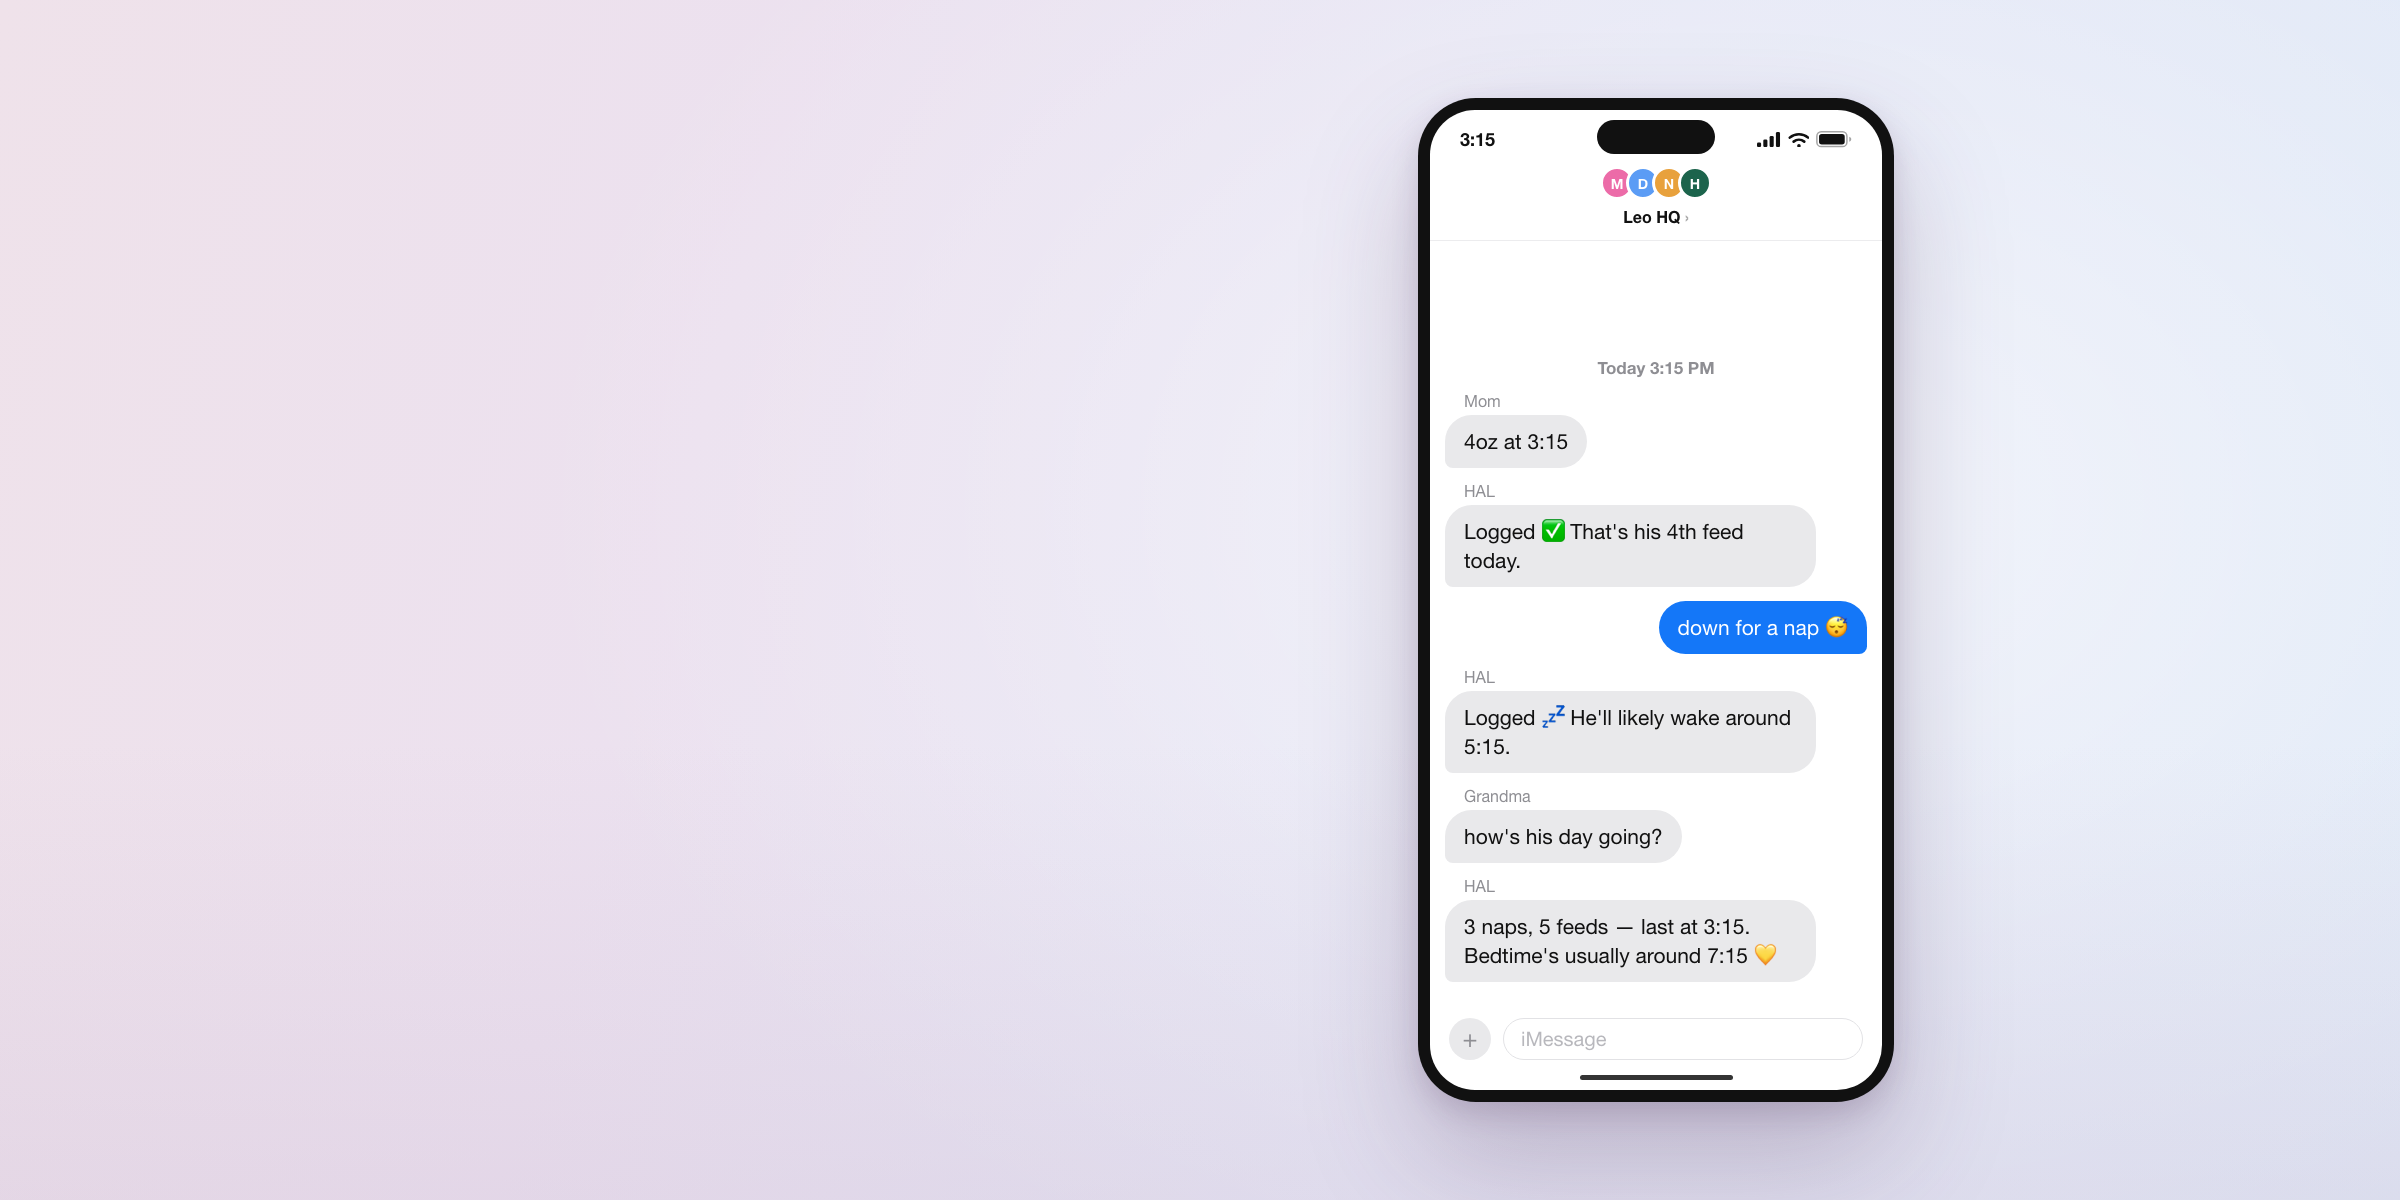
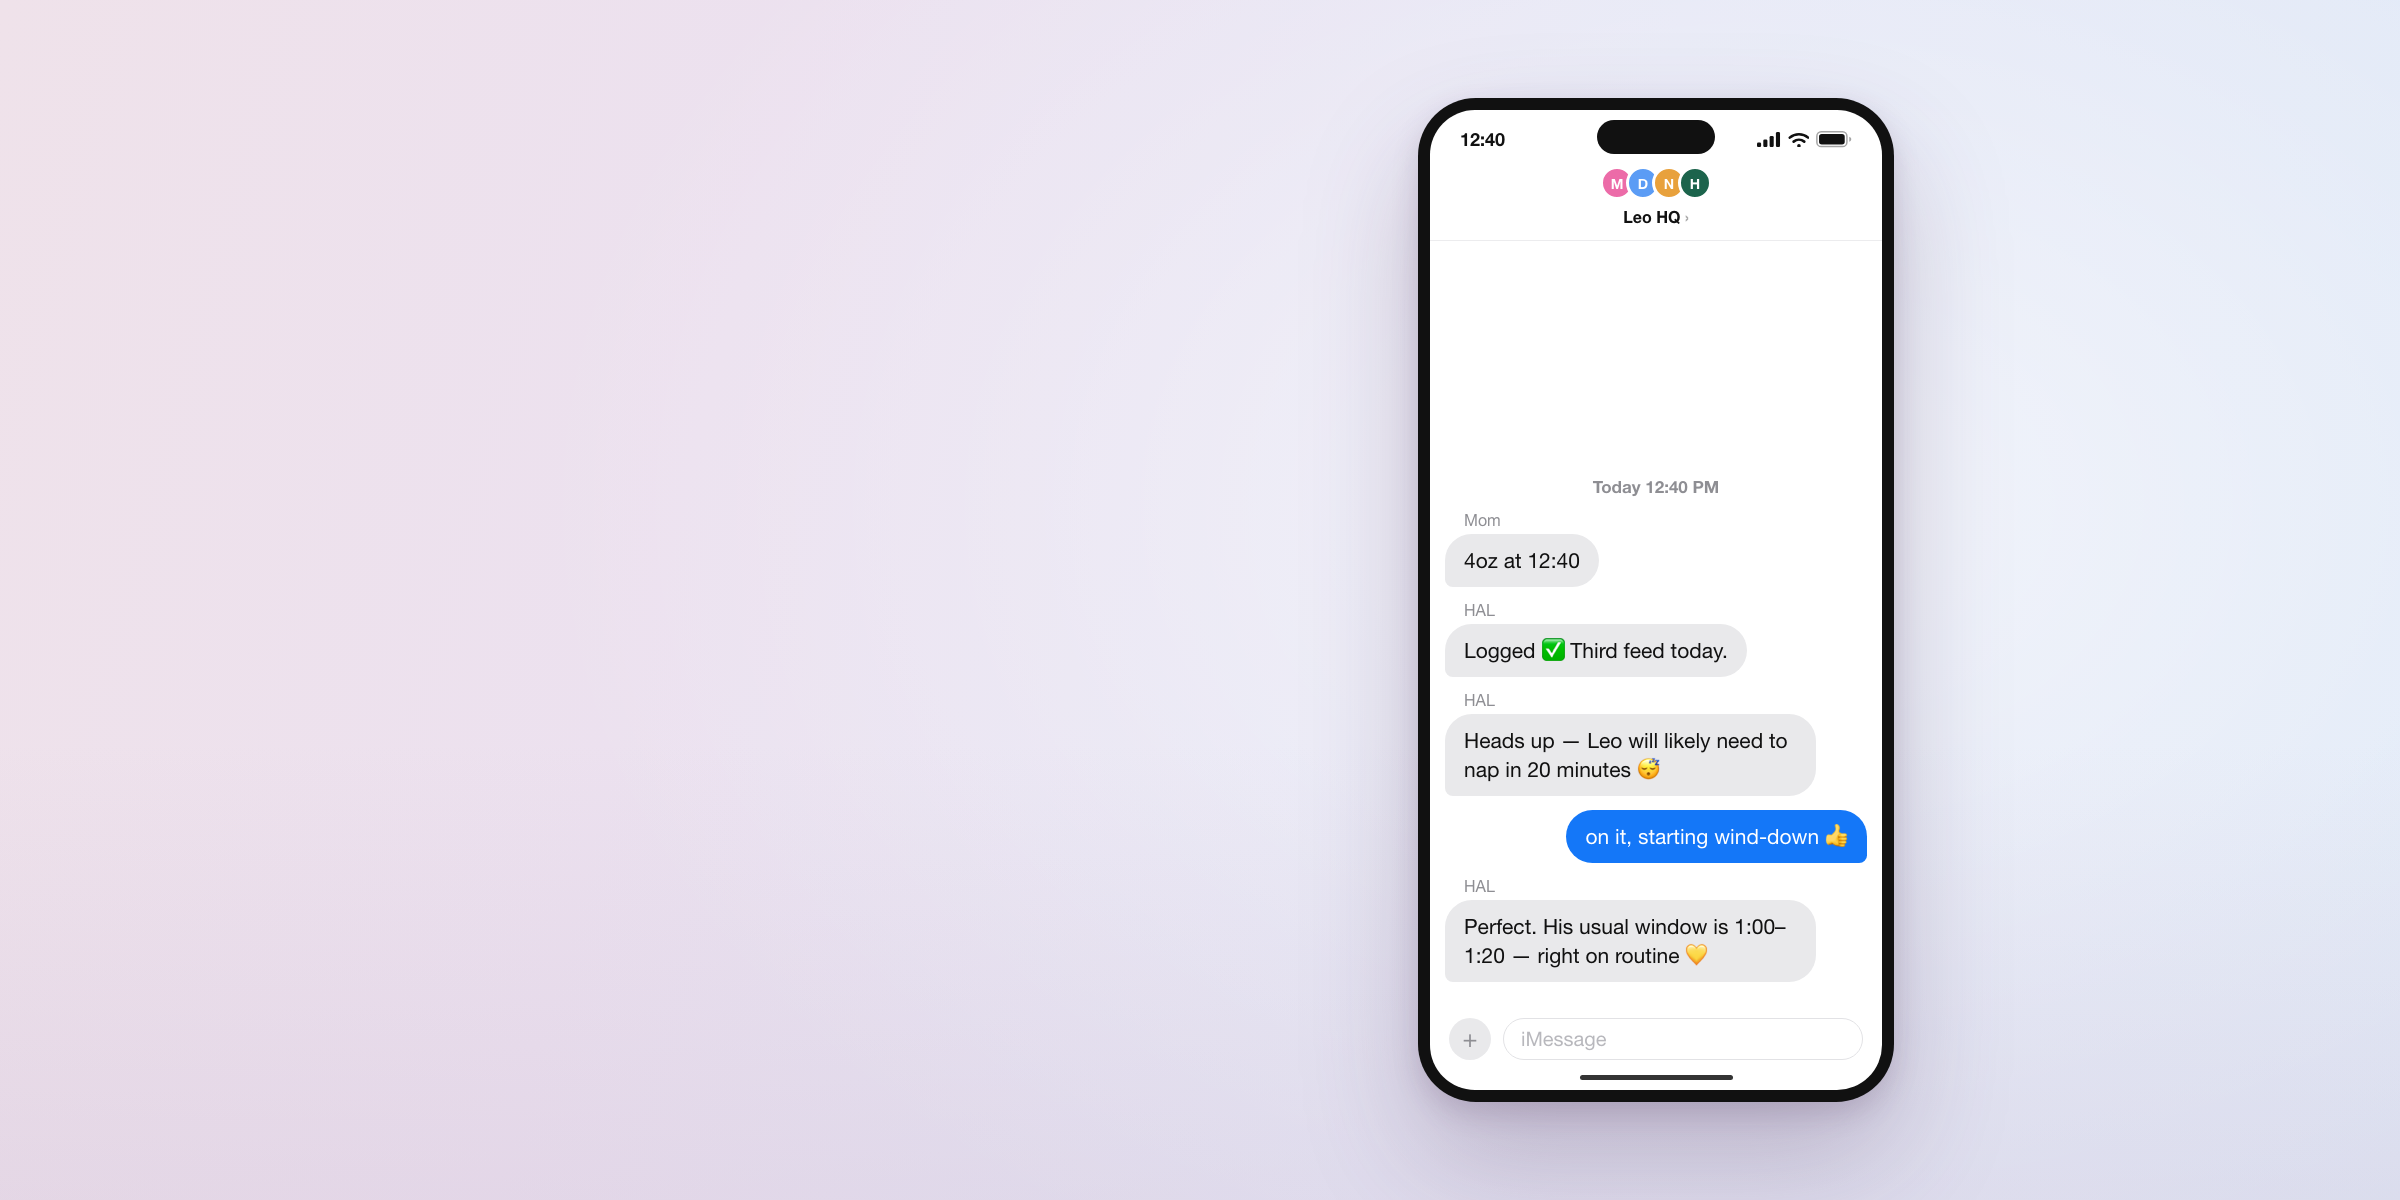
Hero phone: proactive nap heads-up conversation (Adnan)
'Heads up — Leo will likely need to nap in 20 minutes 😴' is the star
message; a caregiver starts wind-down and HAL confirms the routine
held. Matches the 'Protect your baby's routine' headline. Clock and
daystamp aligned to 12:40. Both renders regenerated; alt text updated.

diff --git a/growth/ad_visuals/make_hero.py b/growth/ad_visuals/make_hero.py
@@ -27,15 +27,15 @@ from make_ads import SCREEN_RATIO, status_icons, esc  # noqa: E402
 
 W, H = 2400, 1200
 
-# The conversation that shows the handoff in three beats: a caregiver logs,
-# HAL confirms and predicts, someone else asks and gets a straight answer.
+# Routine-protection beat (Adnan, 2026-08-15): HAL's proactive nap heads-up is
+# the star message; a caregiver acts on it and the routine holds. Matches the
+# "Protect your baby's routine" hero headline.
 MSGS = [
-    ("Mom", "4oz at 3:15"),
-    ("HAL", "Logged ✅ That's his 4th feed today."),
-    (None, "down for a nap 😴"),
-    ("HAL", "Logged 💤 He'll likely wake around 5:15."),
-    ("Grandma", "how's his day going?"),
-    ("HAL", "3 naps, 5 feeds — last at 3:15. Bedtime's usually around 7:15 💛"),
+    ("Mom", "4oz at 12:40"),
+    ("HAL", "Logged ✅ Third feed today."),
+    ("HAL", "Heads up — Leo will likely need to nap in 20 minutes 😴"),
+    (None, "on it, starting wind-down 👍"),
+    ("HAL", "Perfect. His usual window is 1:00–1:20 — right on routine 💛"),
 ]
 
 AVATARS = [("M", "#ec6ba8"), ("D", "#5b9cf5"), ("N", "#e8a13c"), ("H", "#1c644c")]
@@ -148,7 +148,7 @@ def build_html() -> str:
   <div class="stage">
     <div class="phone"><div class="screen">
       <div class="statusbar">
-        <span>3:15</span><div class="island"></div>
+        <span>12:40</span><div class="island"></div>
         <span class="icons">{status_icons(DEV)}</span>
       </div>
       <div class="chathead">
@@ -156,7 +156,7 @@ def build_html() -> str:
         <div class="gname">Leo HQ <span>›</span></div>
       </div>
       <div class="thread">
-        <div class="daystamp">Today 3:15 PM</div>
+        <div class="daystamp">Today 12:40 PM</div>
         {msgs}
       </div>
       <div class="inputbar"><div class="plus">+</div><div class="field">iMessage</div></div>

diff --git a/services/hal-orchestrator/hal_orchestrator/routes/landing.py b/services/hal-orchestrator/hal_orchestrator/routes/landing.py
@@ -664,7 +664,7 @@ def render_landing(
           </div>
         </div>
         <img class="hero-phone" src="/static/hero-phone.png"
-          alt="Family group chat where HAL logs a feed and a nap and answers Grandma"
+          alt="Family group chat where HAL warns that Leo will likely need to nap in 20 minutes and a parent starts wind-down"
           fetchpriority="high">
       </div>
       <div class="scroll-cue" aria-hidden="true">See how HAL helps</div>
